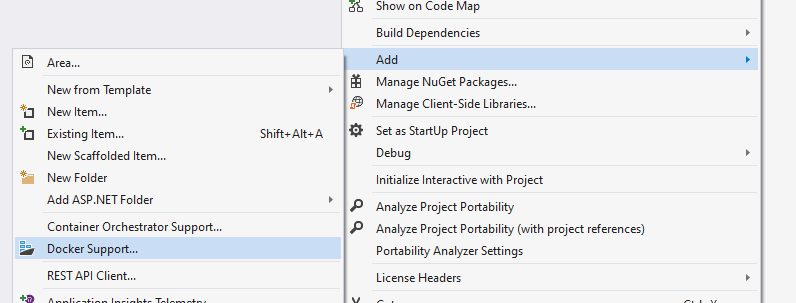
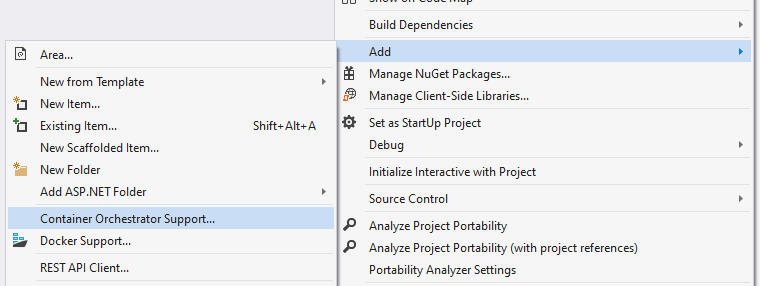
docker docs update

diff --git a/README.md b/README.md
@@ -27,7 +27,7 @@ Hardware assisted virtualization and data execution protection must be enabled i
 
 ### Configure Docker for Sample Project
 
-Right click sample project and select `Container support`.
+Right click sample project and select `Container Orchestrator Support`.
 
 ![add container support](docs/images/add-container-support.png)
 
